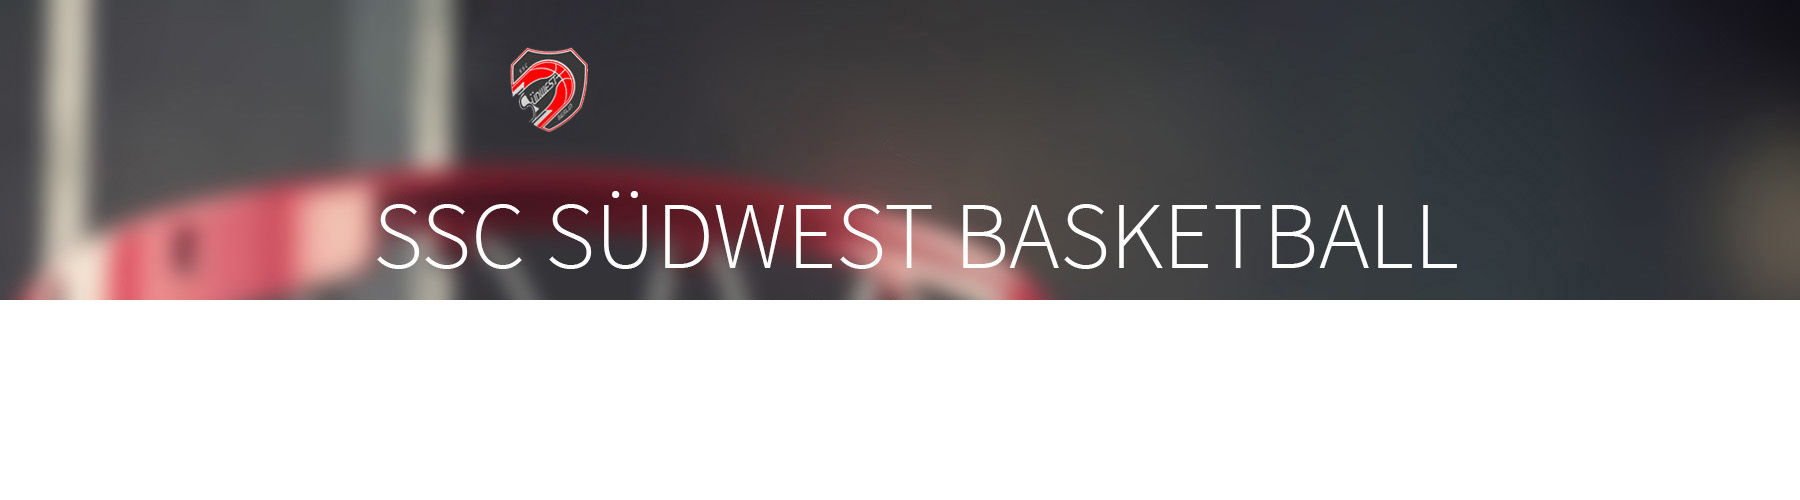
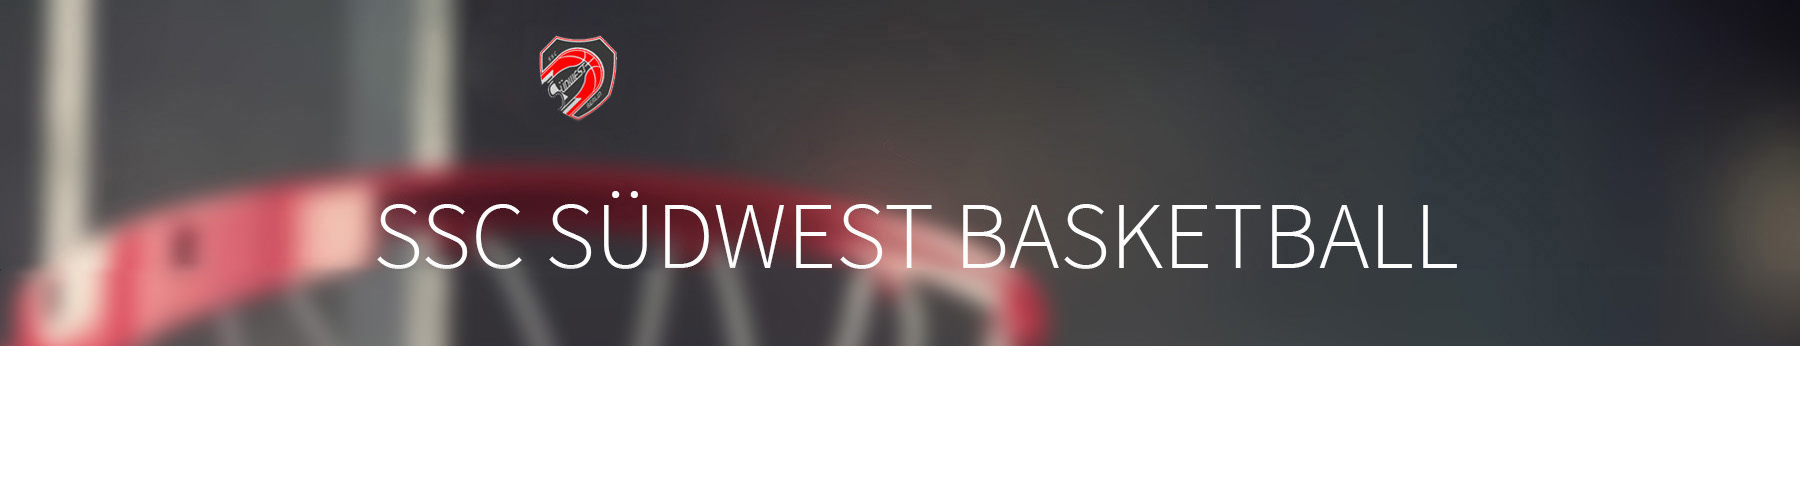
asd

Changed region(s): [[0.0, 0.54, 1.0, 0.69], [0.28, 0.06, 0.3422, 0.27], [0.4978, 0.54, 0.5289, 0.57]]

diff --git a/teams/muster.html b/teams/muster.html
@@ -1,0 +1,201 @@
+
+<!--Homepage des SSC Südwest-->
+
+<!DOCTYPE html>
+<html class="no-js">
+	<head>
+	<meta charset="utf-8">
+	<meta http-equiv="X-UA-Compatible" content="IE=edge">
+	<title>SSC Südwest</title>
+	<meta name="viewport" content="width=device-width, initial-scale=1">
+	<meta name="description" content="" />
+	<meta name="keywords" content="" />
+	<meta name="author" content="" />
+	<meta property="og:title" content=""/>
+	<meta property="og:image" content=""/>
+	<meta property="og:url" content=""/>
+	<meta property="og:site_name" content=""/>
+	<meta property="og:description" content=""/>
+	<meta name="twitter:title" content="" />
+	<meta name="twitter:image" content="" />
+	<meta name="twitter:url" content="" />
+	<meta name="twitter:card" content="" />
+
+
+	<link rel="icon" href="images/favicon.ico" type="image/x-icon"/>
+	<link rel="shortcut icon" href="favicon.ico" type="image/x-icon"/>
+
+	<link href='https://fonts.googleapis.com/css?family=Source+Sans+Pro:400,700,300' rel='stylesheet' type='text/css'>
+	
+
+	<link rel="stylesheet" href="css/animate.css">
+
+	<link rel="stylesheet" href="css/icomoon.css">
+
+	<link rel="stylesheet" href="css/bootstrap.css">
+
+	<link rel="stylesheet" href="css/superfish.css">
+
+	<link rel="stylesheet" href="css/style.css">
+
+	<script src="js/modernizr-2.6.2.min.js"></script>
+
+	
+<!--Head-->
+	</head>
+	<body>
+	
+	
+		<div id="fh5co-wrapper">
+		<div id="fh5co-page">
+		<div id="fh5co-header">
+			<div class="top">
+				<div class="container">
+					<span> <a href="mailto:basketball@ssc-suedwest.de"><i>@</i> Basketball@ssc-suedwest.de</a></span>
+					<span> <a href="basketball-suedwest.de"><i class="icon-mobile3"></i> basketball-suedwest.de</a></span>
+				</div>
+			</div>
+			<header id="fh5co-header-section">
+				<div class="container">
+					<div class="nav-header">
+						<a href="#" class="js-fh5co-nav-toggle fh5co-nav-toggle"><i></i></a>
+						<h1 id="fh5co-logo"><a href="index.html">SSC Südwest</a></h1>
+
+					<nav id="fh5co-menu-wrap" role="navigation">
+						<ul class="sf-menu" id="fh5co-primary-menu">
+							<li class="active">
+								<a href="index.html">Home</a>
+							<li><a href="news.html">News</a></li>
+							</li>
+							<li>
+								<a href="teams.html" class="fh5co-sub-ddown">Teams</a>
+								 <ul class="fh5co-sub-menu">
+									<li><a href="teams/jungen.html" class="fh5co-sub-ddown">Jungen</a>
+										<ul class="fh5co-sub-menu">
+											
+											<li><a href="teams/mu8.html" target="_blank">Mini mU8</a></li>
+											<li><a href="teams/mu9f.html" target="_blank">Mini mU9f</a></li>
+											<li><a href="teams/mu10.html" target="_blank">Mini mU10</a></li>
+											<li><a href="teams/mu11f.html" target="_blank">Mini mU11f</a></li>
+											<li><a href="teams/mu12_1.html" target="_blank">mU12/1</a></li>
+											<li><a href="teams/mu12_2.html" target="_blank">mU12/2</a></li>
+											<li><a href="teams/mu14_1.html" target="_blank">mU14/1</a></li>
+											<li><a href="teams/mu14_2.html" target="_blank">mU14/2</a></li>
+											<li><a href="teams/mu16_1.html" target="_blank">mU16/1</a></li>
+											<li><a href="teams/mu16_2.html" target="_blank">mU16/2</a></li>
+											<li><a href="teams/mu18.html" target="_blank">mU18</a></li>
+										</ul>
+									</li>
+									<li><a href="teams/Mädchen.html">Mädchen</a>
+										<ul class="fh5co-sub-menu">
+											<li><a href="teams/wu9.html" target="_blank">wU9</a></li>
+											<li><a href="teams/wu10.html" target="_blank">wU10</a></li>
+											<li><a href="teams/wu14.html" target="_blank">wu14</a></li>
+										</ul>
+									</li>
+								 	<li><a href="teams/herren.html">Herren</a>
+										<ul class="fh5co-sub-menu">
+											<li><a href="teams/herren1.html" target="_blank">Herren 1</a></li>
+											<li><a href="teams/herren2.html" target="_blank">Herren 2</a></li>
+											<li><a href="teams/herren3.html" target="_blank">Herren 3</a></li>
+										</ul>
+									</li>
+								 	<li><a href="teams/damen.html">Damen</a></li>
+
+
+									<li><a href="teams/micros.html">Micros</a></li>
+								</ul>
+							</li>
+							<li><a href="saison_17_18.html">Saison 17/18</a>
+								<ul class="fh5co-sub-menu">
+									<li><a href="hallen.html" target="_blank">Hallen</a></li>
+									<li><a href="spielplan.html" target="_blank">Spielplan</a></li>
+									<li><a href="ergebnisse.html" target="_blank">Ergebnisse</a></li>
+									<li><a href="tabellen.html" target="_blank">Tabellen</a></li>
+									<li><a href="trainingszeiten.html" target="_blank">Trainingszeiten</a></li>
+								</ul>
+							</li>
+							<li><a href="verein.html" >Verein</a>
+								<ul class="fh5co-sub-menu">
+									<li><a href="über_uns.html" target="_blank">Über uns</a></li>
+									<li><a href="trainer.html" target="_blank">Trainer</a></li>
+									<li><a href="schiedsrichter.html" target="_blank">Schiedsrichter</a></li>
+									<li><a href="abteilung.html" target="_blank">Abteilung</a></li>
+								</ul>
+							</li>
+							<li><a href="mitglied.html">Mitglied</a></li>
+							<li><a href="kontakt.html">Kontakt</a></li>
+							<li><a href="shop.html">Shop</a></li>
+						</ul>
+					</nav>
+					</div>
+				</div>
+			</header>
+			
+		</div>
+		
+
+		<div class="fh5co-hero">
+			<div class="fh5co-overlay"></div>
+			<div class="fh5co-cover text-center" style="background-image: url(images/work-1.jpg);">
+				<!--<div class="desc animate-box">
+					<h2></h2>
+					<span><a href="" target="_blank" class="fh5co-site-name"></a></span>-->
+					<!--<span><a class="btn btn-primary" href="ergebnisse.html">Spielergebnisse</a></span>-->
+				<!--</div>-->
+			</div>
+
+		</div>
+<!--main body-->
+
+
+
+<!--main body end-->
+		<footer>
+			<div id="footer">
+				<div class="container">
+					<div class="row">
+						<div class="col-md-6">
+							<p>All rights reserved © 2017 <a href="index.html">SSC Südwest </a><br><a href="impressum.html"><u>Impressum</u></a></p>
+						</div>
+						<div class="col-md-6">
+							<ul class="footer-menu">
+								<li><a href="index.html">Home</a></li>
+								<li><a href="mitglied.html">News</a></li>
+								<li><a href="abteilung.html">Teams</a></li>
+								<li><a href="partner.html">Saison 17/18</a></li>
+								<li><a href="kontakt.html">Verein</a></li>
+								<li><a href="shop.html">Kontakt</a></li>
+								<li><a href="shop.html">Shop</a></li>
+							</ul>
+						</div>
+					</div>
+				</div>
+			</div>
+		</footer>
+	
+
+	</div>
+
+
+	</div>
+
+
+
+	<script src="js/jquery.min.js"></script>
+
+	<script src="js/jquery.easing.1.3.js"></script>
+
+	<script src="js/bootstrap.min.js"></script>
+
+	<script src="js/jquery.waypoints.min.js"></script>
+
+	<script src="js/hoverIntent.js"></script>
+	<script src="js/superfish.js"></script>
+
+
+	<script src="js/main.js"></script>
+
+	</body>
+</html>
+

diff --git a/css/style.css b/css/style.css
@@ -122,14 +122,14 @@ figure {
 
 .fh5co-hero2 {
   position: relative;
-  height: 300px;
+  height: 350px;
   font-weight: 200;
   
 }
-@media screen and (max-width: 300px) {
+@media screen and (max-width: 350px) {
   .fh5co-cover,
   .fh5co-hero2 {
-    height: 300px;
+    height: 350px;
   }
 }
 
